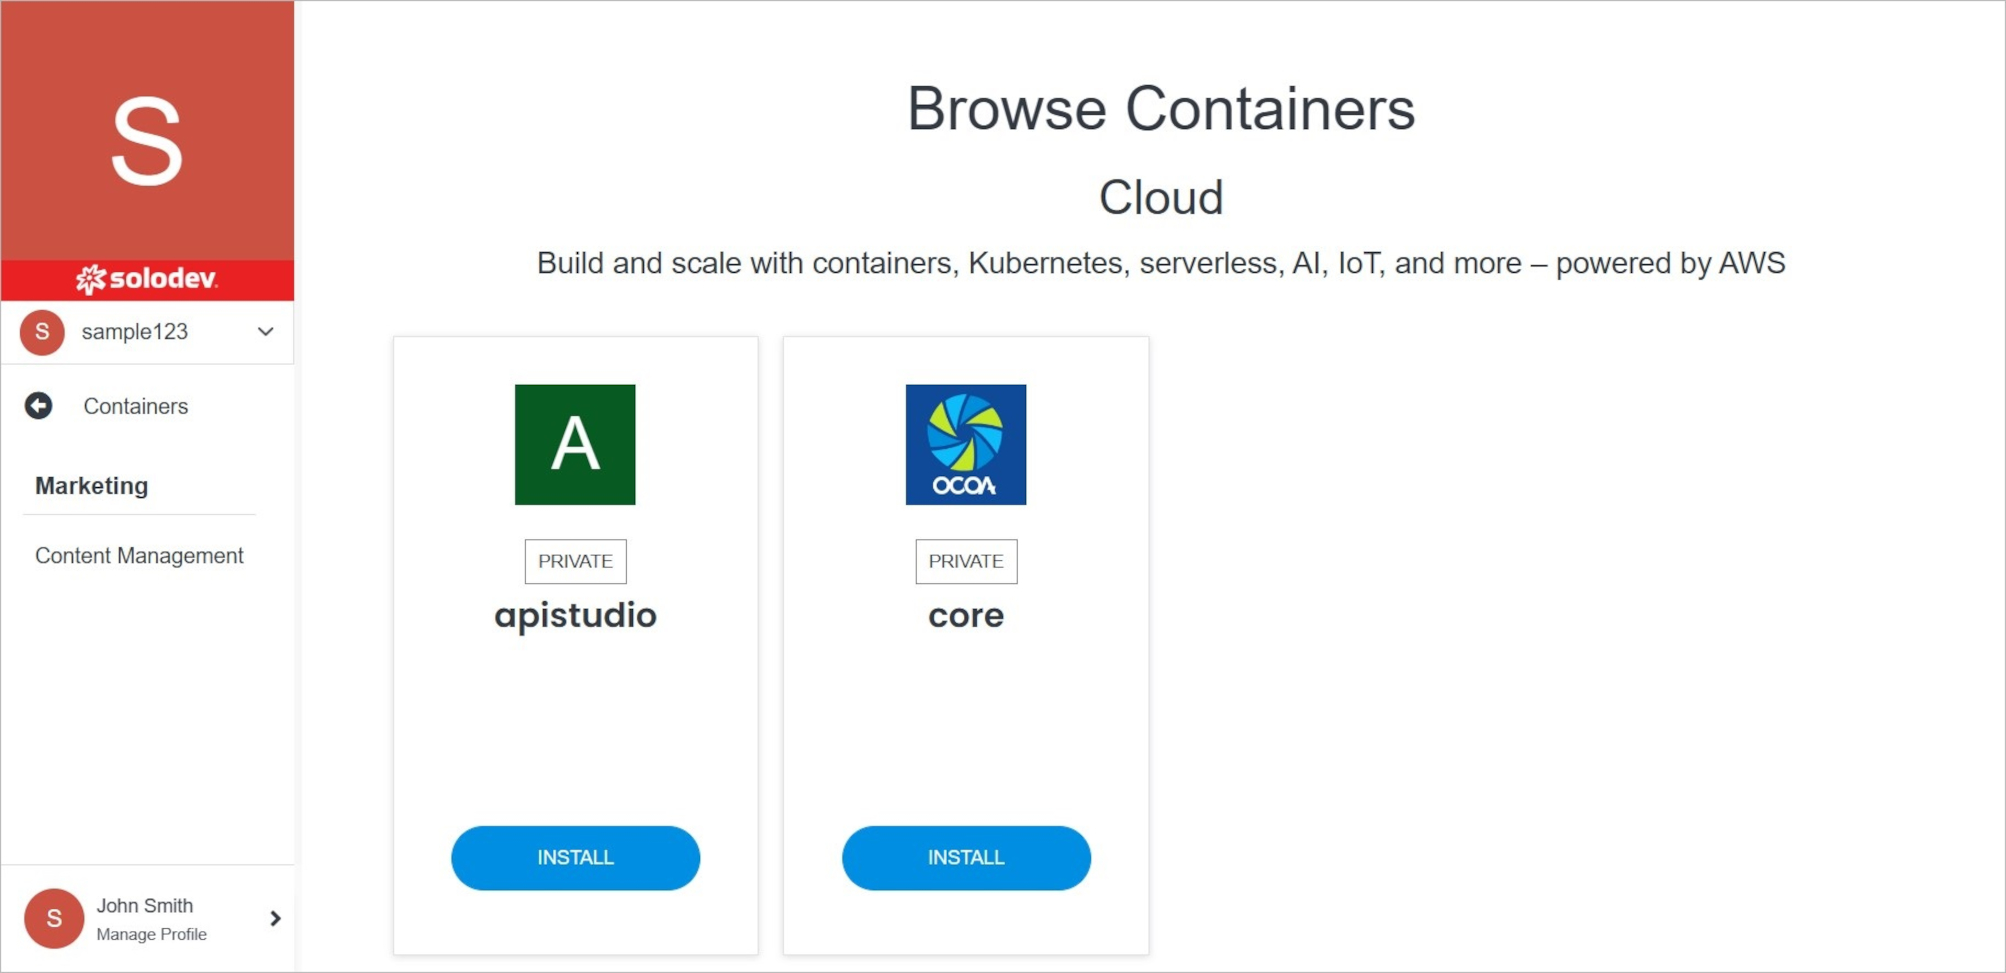
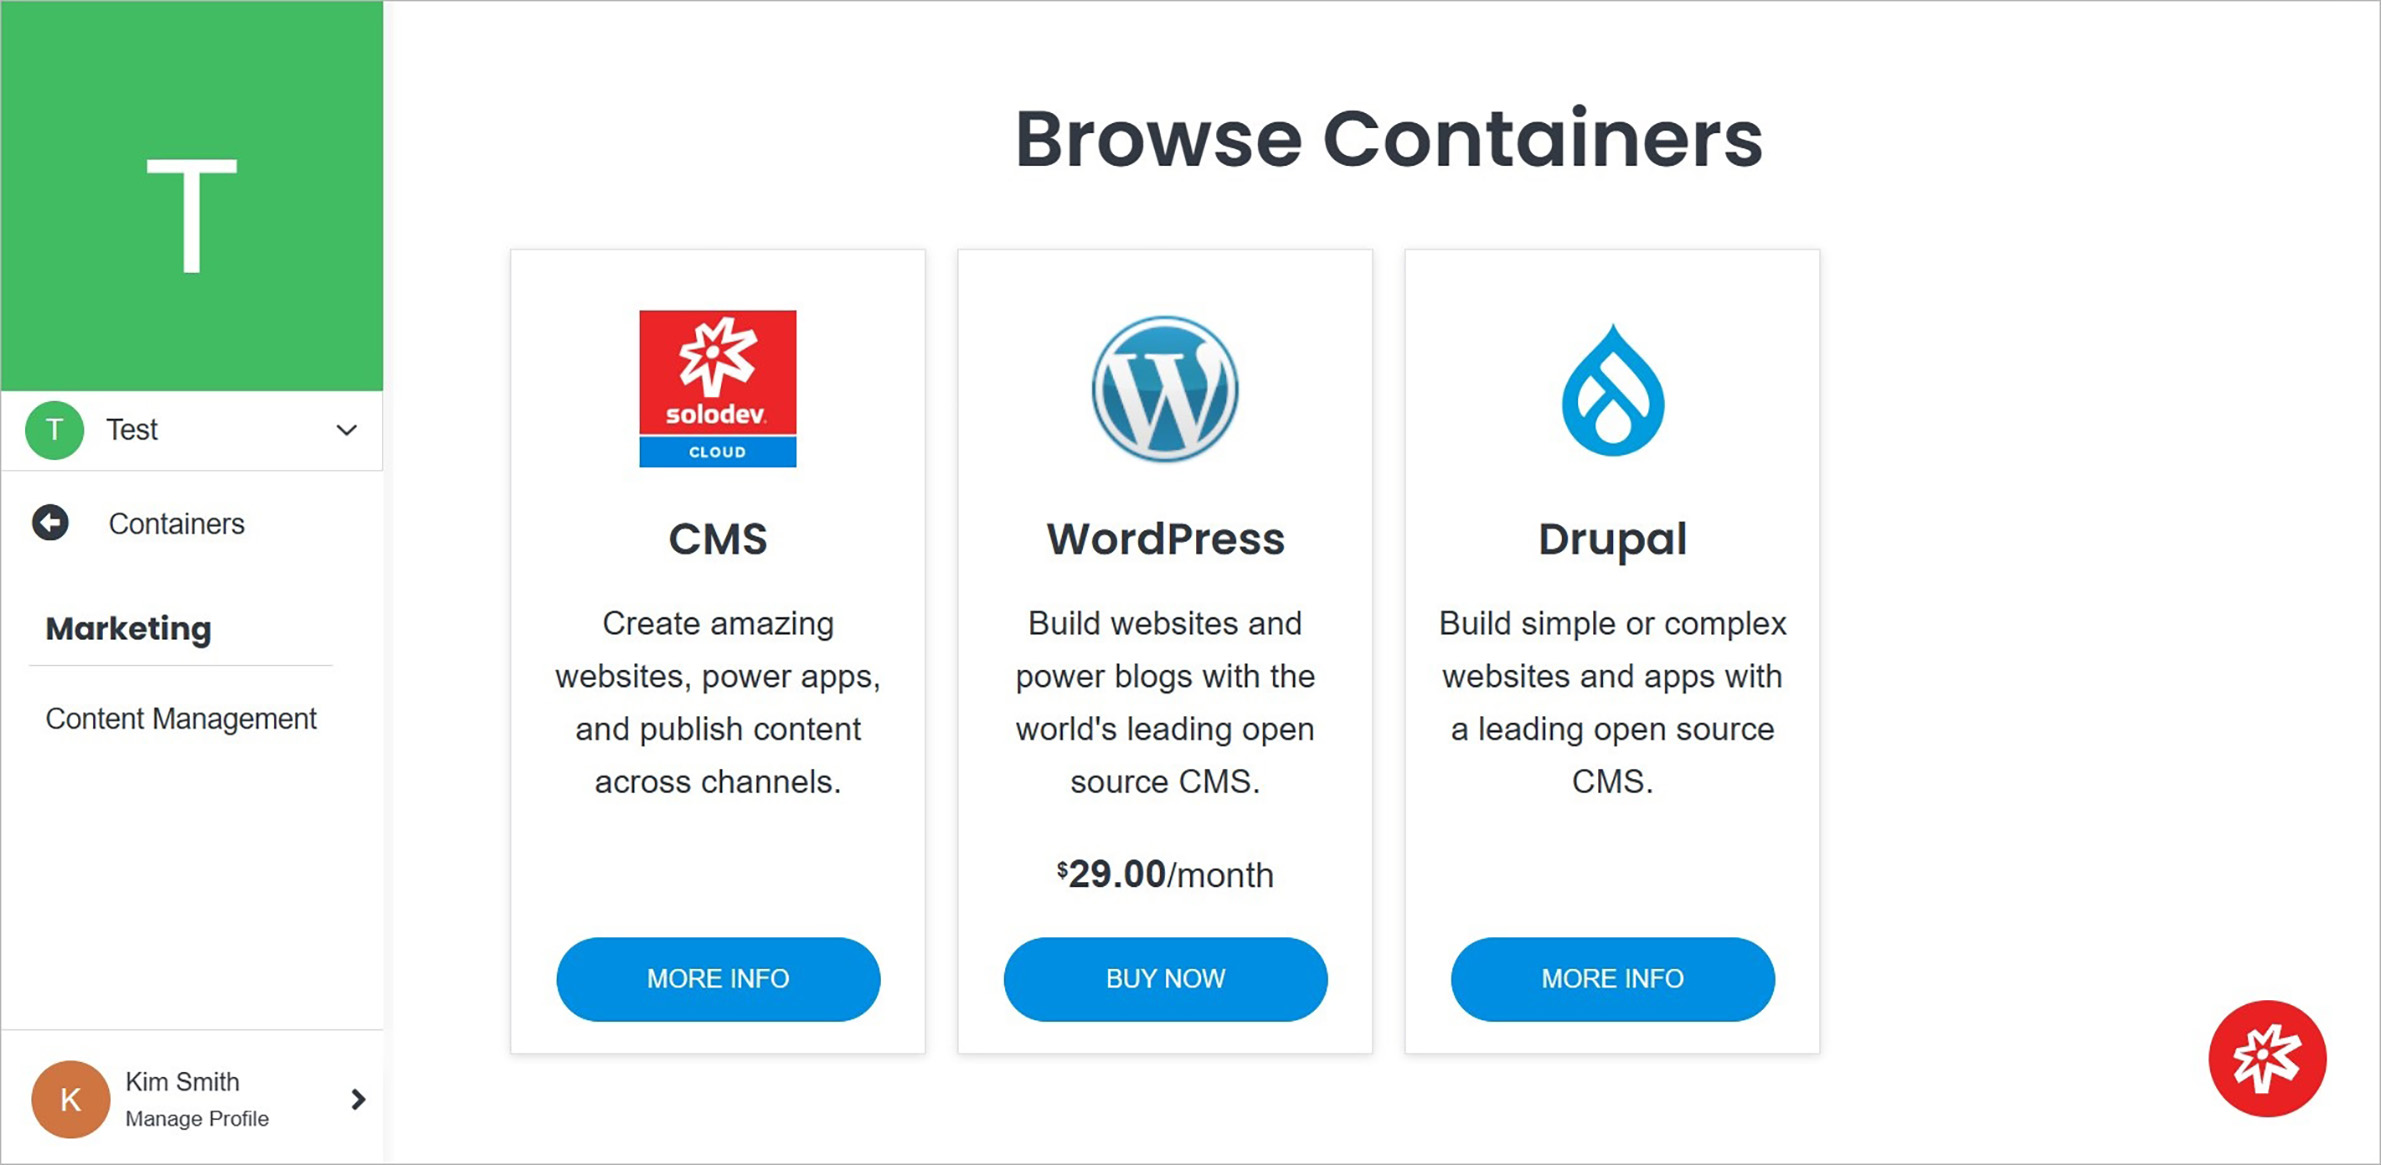
Services and Containers changed

diff --git a/src/infrastructure/providers/Add Provider/index.md b/src/infrastructure/providers/Add Provider/index.md
@@ -2,31 +2,31 @@
 
 Adding a provider in Solodev Cloud is a simple process, and can be completed in minutes by following the steps below.
 
-<img src="../../../images/addcloudaccount.jpg" alt="addcloudaccount" style="width: 100%; display: block"></a>
+<img src="../../../images/addprovider.jpg" alt="addprovider" style="width: 100%; display: block"></a>
 
 **Name** | **Description** 
 :--- | ---
 Product Selection | Select the provider you are interested in by clicking on the button on the product card.
 
-<img src="../../../images/addcloudaccount2.jpg" alt="addcloudaccount2" style="width: 100%; display: block"></a>
+<img src="../../../images/addprovider2.jpg" alt="addprovider2" style="width: 100%; display: block"></a>
 
 **Name** | **Description** 
 :--- | ---
 Install for free | Click this button to go one step further, selecting a product type before.
 
-<img src="../../../images/addcloudaccount3.jpg" alt="addcloudaccount3" style="width: 100%; display: block"></a>
+<img src="../../../images/addprovider.jpg" alt="addprovider" style="width: 100%; display: block"></a>
 
 **Name** | **Description** 
 :--- | ---
 Complete Purchase | Click this button to complete your purchase.
 
-<img src="../../../images/addcloudaccount4.jpg" alt="addcloudaccount4" style="width: 100%; display: block"></a>
+<img src="../../../images/addprovider.jpg" alt="addprovider" style="width: 100%; display: block"></a>
 
 **Name** | **Description** 
 :--- | ---
 Install | Install the product.
 
-<img src="../../../images/addcloudaccount5.jpg" alt="addcloudaccount5" style="width: 75%; display: block"></a>
+<img src="../../../images/addprovider.jpg" alt="addprovider" style="width: 75%; display: block"></a>
 
 **Name** | **Description** 
 :--- | ---
@@ -63,7 +63,7 @@ AWS Secret Key | Enter the Secret Key.
 
 ## Confirm
 
-Once you have completed all the fields, click **Connect** to add your provider.
+Once you have completed all the fields, click **Connect** to add the provider.
 
 !!!Note:
 The provider addition process may take several minutes to complete after clicking the **Connect** button. Do not close or quit your browser during this process.

diff --git a/src/services/Add Service/index.md b/src/services/Add Service/index.md
@@ -9,8 +9,17 @@ Adding a service in Solodev Cloud is a simple process and can be completed in mi
 Product Selection | Select the product you are interested in by clicking the blue button on the product card.
 
 !!!Note:
-Some products have a purchase option. For others without a purchase option, contact Solodev by filling out the contact form. Below is an example of a product **Solodev CMS** that can be purchased immediately without having to contact Solodev.
+Some products have a purchase option. For others without a purchase option, contact Solodev by filling out the contact form.
 !!!
+
+**Name** | **Description** 
+:--- | ---
+<a href="/services/add-service/#Purchase">Purchase</a>  | Purchase the product.
+<a href="/services/add-service/#Call Us">Call Us</a> | Ask about the product.
+
+## Purchase
+
+Purchase the selected product.
 
 <img src="../../../images/addservice2.jpg" alt="addservice2" style="width: 100%; display: block"></a>
 
@@ -34,3 +43,29 @@ Install | Install the product to begin using in the Solodev Cloud.
 !!!Note:
 The next steps required to install the product depend on its specific characteristics.
 !!!
+
+## Call Us
+
+Ask about the product.
+
+<img src="../../../images/addservicecallus.jpg" alt="addservicecallus" style="width: 100%; display: block"></a>
+
+**Name** | **Description** 
+:--- | ---
+Call Us | Click this button to go one step further to fill out the contact form.
+
+Fill out the contact form.
+
+<img src="../../../images/addservicecallus2.jpg" alt="addservicecallus2" style="width: 40%; display: block"></a>
+
+**Name** | **Description** 
+:--- | ---
+First Name | Input the first name.
+Last Name | Input the last name.
+Company Name | Input the company name.
+Email Address | Input the email address where you will receive communications related to your query.
+Phone Number | Input the phone number.
+
+### Confirm
+
+Once you have completed all the fields, click **Schedule Call**.

diff --git a/src/infrastructure/containers/Add Container/index.md b/src/infrastructure/containers/Add Container/index.md
@@ -6,18 +6,13 @@ Adding a container in Solodev Cloud is a simple process and can be completed in 
 
 **Name** | **Description** 
 :--- | ---
-Container Selection | Select the container you are interested in by clicking install on the product card.
+Product Selection | Select the product you are interested in by clicking the blue button on the product card.
 
 !!!Note:
-Some containers have a purchase option, while others require you to contact Solodev by filling out the contact form. Some are already published in Solodev Cloud and are part of the catalog and you can launch them to your Solodev Cloud. Below is an example of the **Apistudio** container that can be launched immediately without having to buy or contact Solodev.
+Some products have a purchase option. For others without a purchase option, contact Solodev by filling out the contact form.
 !!!
-
-<img src="../../../images/addcontainer2.jpg" alt="addcontainer2" style="width: 100%; display: block"></a>
-
-**Name** | **Description** 
-:--- | ---
-Install | Click this button to install the container.
 
 !!!Note:
-The next steps required to install the container depend on its specific characteristics.
-!!!
+The next steps are presented in the <a href="/services/add-service">Add Service</a>. 
+
+

diff --git a/src/infrastructure/containers/Container Overview/Permissions/index.md b/src/infrastructure/containers/Container Overview/Permissions/index.md
@@ -1,6 +1,6 @@
 # Permissions
 
-Assign roles to users or groups, manage and delete permissions. Click on the **9** button to assign permissions to new user/group.
+Assign roles to users or groups, and manage and delete permissions. Click the **"+"** button to assign permissions to new user or group.
 
 <img src="../../../../images/sitespermissions.jpg" alt="sitespermissions" style="width: 40%; display: block"></a>
 
@@ -15,7 +15,7 @@ A group or group member can be assigned one of four roles in Solodev Cloud:
 
 - **View:** Allows a member to see items and content. 
 - **Editor:** Gives a member the ability to view, create, edit, and publish.
-- **Admin:** Provides full editor control and management of group members.
+- **Admin:** Provides full editing control and management of group members.
 !!!
 
 ## Confirm

diff --git a/src/infrastructure/containers/index.md b/src/infrastructure/containers/index.md
@@ -1,4 +1,4 @@
-# Containers
+# Containers 
 
 A container is a software unit that packages up code and all its dependencies, allowing applications to run quickly and reliably from one computing environment to another either on a PC, in a traditional IT environment, or in the cloud.
 
